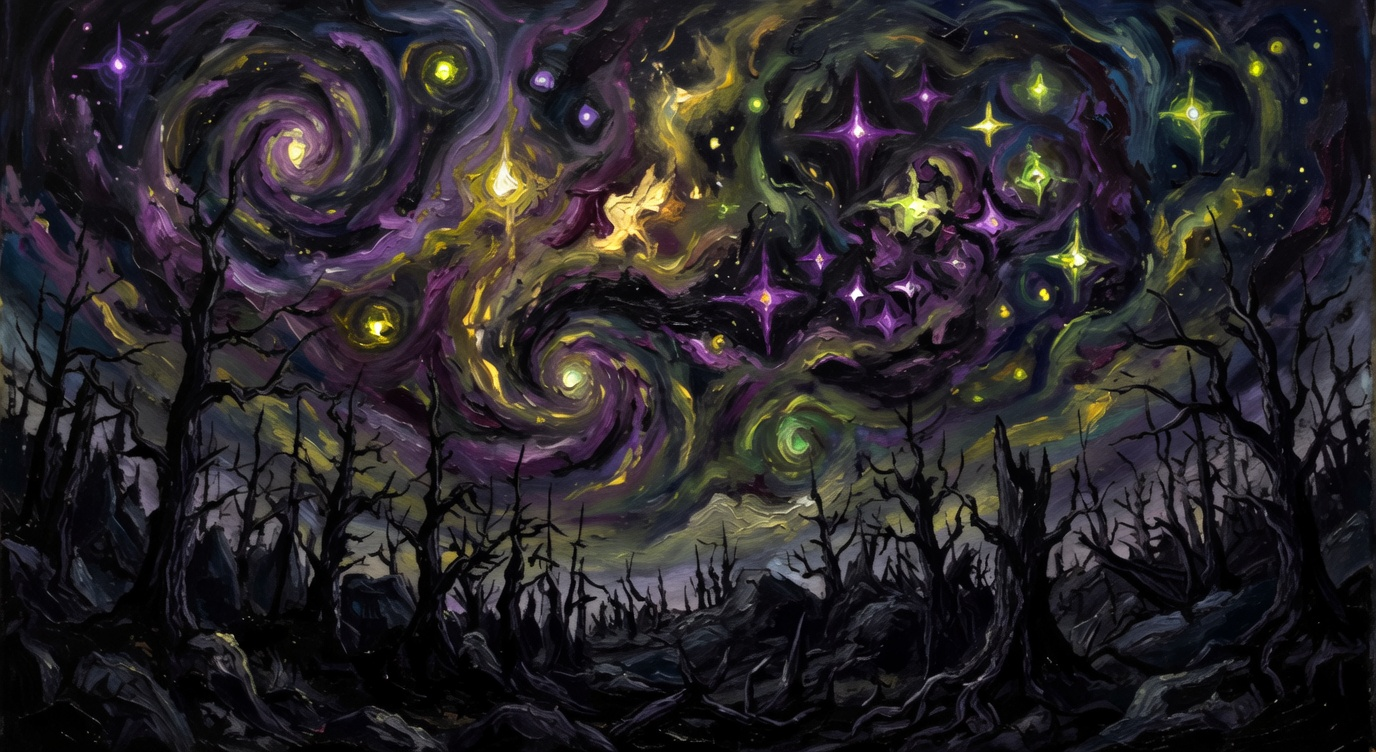
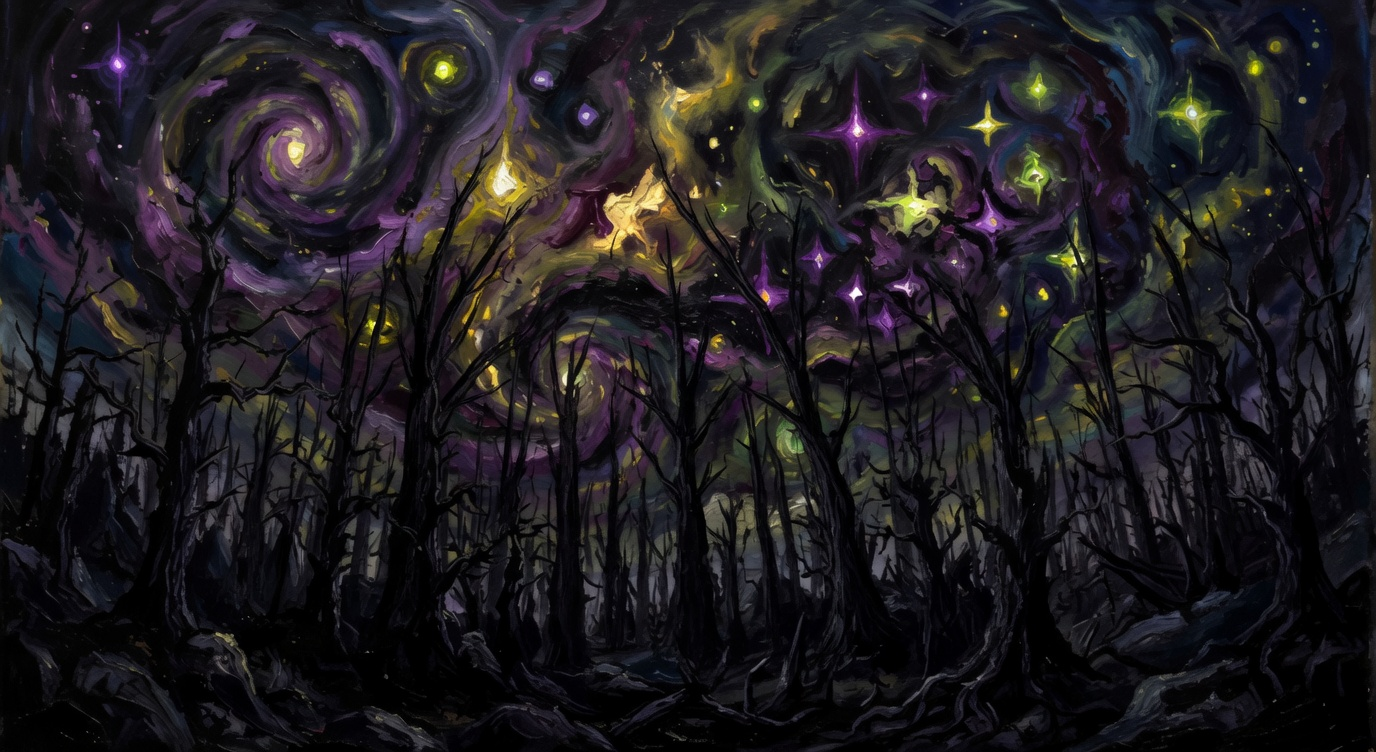
Drop the personal App Store name and make the starry trees more ominous.

diff --git a/index.html b/index.html
@@ -100,7 +100,7 @@
       opacity: 0;
       transition: opacity .55s ease;
     }
-    .scene .bg-starry { background-image: url("assets/bg-starry.jpg?v=2"); }
+    .scene .bg-starry { background-image: url("assets/bg-starry.jpg?v=3"); }
     .scene .bg-dark { background-image: url("assets/bg-dark.jpg"); }
     .scene .bg-light { background-image: url("assets/bg-light.jpg"); }
     html[data-theme="starry"] .scene .bg-starry { opacity: 1; }
@@ -516,7 +516,7 @@
       </div>
       <div class="foot-links">
         <a href="https://play.google.com/store/apps/dev?id=4654682304069795192" target="_blank" rel="noopener">Google Play · MadStorm</a>
-        <a href="https://apps.apple.com/us/developer/anton-antipov/id1372241871" target="_blank" rel="noopener">App Store · Anton Antipov</a>
+        <a href="https://apps.apple.com/us/developer/anton-antipov/id1372241871" target="_blank" rel="noopener">App Store</a>
         <a href="privacy.html">Privacy &amp; Terms</a>
       </div>
       <p class="copy">© <span id="y"></span> MadStorm Games</p>
